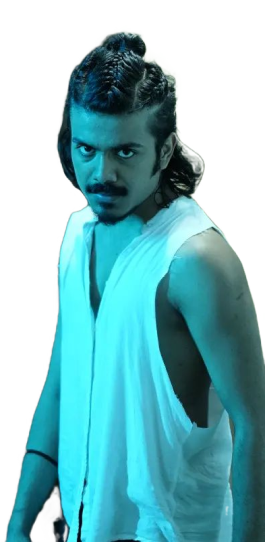
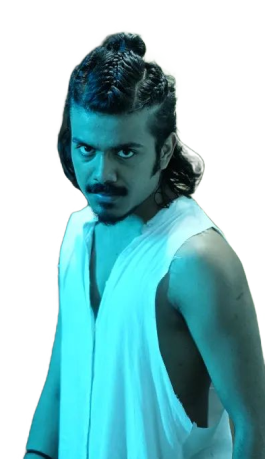
making the website responsive

diff --git a/src/Hero/Hero.jsx b/src/Hero/Hero.jsx
@@ -162,13 +162,11 @@ function Hero() {
           </div>
         ))}
         </div>
-
        </div>
-       
          <div className="about__page">
        <div className='about__us'>
        <h1 style={{fontSize:'32px', color:'white' , fontWeight:'600'}}>About Us</h1>
-       <p style={{fontSize:'16px' , fontWeight:'400', color:'#555555'}}>TEDx IITRoorkee is organized by a group of enthusiasts who form a part of the Entrepreneurship Cell IIT Roorkee. The spirit of TED aligns closely with the primary aspiration of the E-CELL, which is to foster the dissemination of knowledge, innovation, and inspiration. Since its inception in 2010, TEDx IITRoorkee has now become an annual event, playing host to a multitude of speakers from various walks of life. TEDxIITRoorkee boasts of an active following online, through its website and on various social media channels. This year, it is coming back on March 23rd, 2024.</p>
+       <p style={{fontSize:'16px' , fontWeight:'400', color:'#ffffff'}}>TEDx IITRoorkee is organized by a group of enthusiasts who form a part of the Entrepreneurship Cell IIT Roorkee. The spirit of TED aligns closely with the primary aspiration of the E-CELL, which is to foster the dissemination of knowledge, innovation, and inspiration. Since its inception in 2010, TEDx IITRoorkee has now become an annual event, playing host to a multitude of speakers from various walks of life. TEDxIITRoorkee boasts of an active following online, through its website and on various social media channels. This year, it is coming back on March 23rd, 2024.</p>
        </div>
        <div>
          <img src={iit} alt="iit" />

diff --git a/src/Nav/nav.css b/src/Nav/nav.css
@@ -2,7 +2,12 @@
     background-color: #0E0E0E;
     font-family: "Poppins", sans-serif;
     --animate-duration: 1500ms;
-  }
+}
+
+body{
+    max-width: 1600px;
+    margin:0 auto;
+}
 
 .navbar{
     background-color: #0E0E0E;
@@ -56,7 +61,7 @@
     display: flex;
     flex-direction: row;
     justify-content: space-around;
-    margin-left: 750px ;
+    margin-left: 920px ;
 }
 
 
@@ -116,9 +121,36 @@ body.active-modal {
     gap:32px;
     justify-content: space-around;
 }
+
+@media(max-width:1540px){
+    .links{
+        margin-left:870px
+    }
+}
+
+
+@media(max-width:1497px){
+    .links{
+        margin-left:800px
+    }
+}
+
+@media(max-width:1422px){
+    .links{
+        margin-left:750px
+    }
+}
+
+
 @media(max-width:1388px){
     .links{
         margin-left:700px
+    }
+}
+
+@media(max-width:1319px){
+    .links{
+        margin-left:650px
     }
 }
 

diff --git a/src/Hero/hero.css b/src/Hero/hero.css
@@ -128,8 +128,7 @@
 }
 
 .speaker__div{
-    max-width:70vw;
-    width: 70vw;
+    width: 100%;
     height: 300px;
     border-left:1px solid white;
     display: flex;
@@ -158,7 +157,7 @@
 }
 
 .speaker__bio{
-    color:rgb(133, 133, 133);
+    color:white;
     font-size: 14px;
 
 }
@@ -179,14 +178,15 @@
 }
 
 .image__div{
-    width: 30%;
-    height: 300px;
+    width: auto;
+    margin:0 auto;
+    height: 100%;
+    overflow: hidden;
 }
 .aman__image{
+    display: block;
     width: 100%;
-    height: 100%;
-    object-position: top;
-    object-fit: cover;
+    height: auto;
     min-width: 150px;
 }
 
